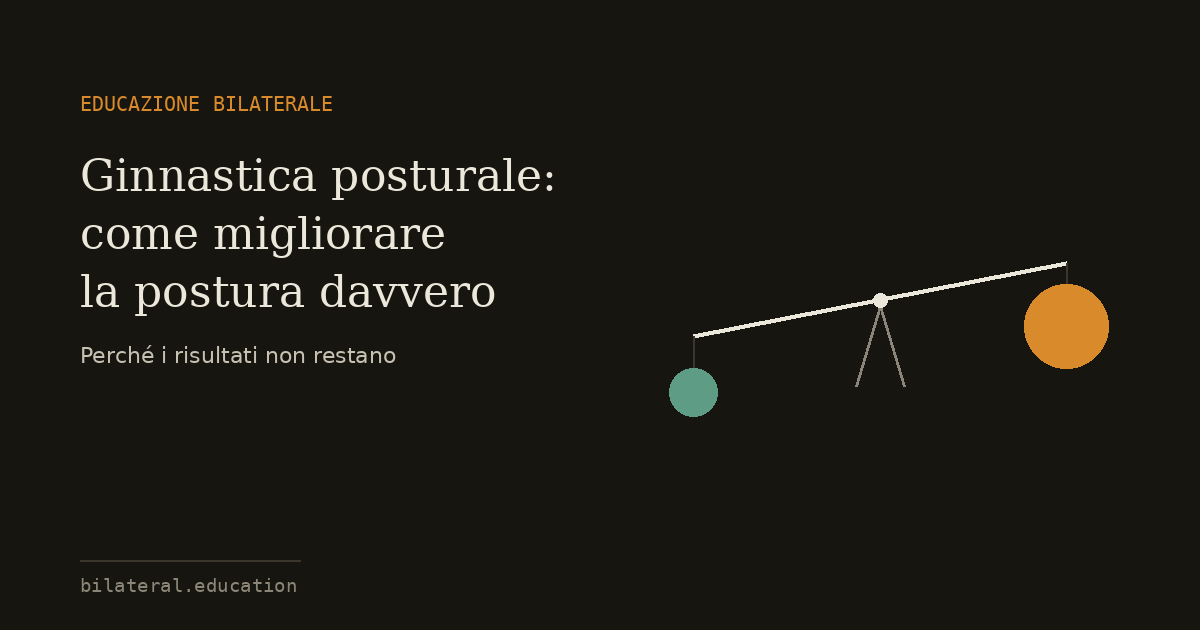
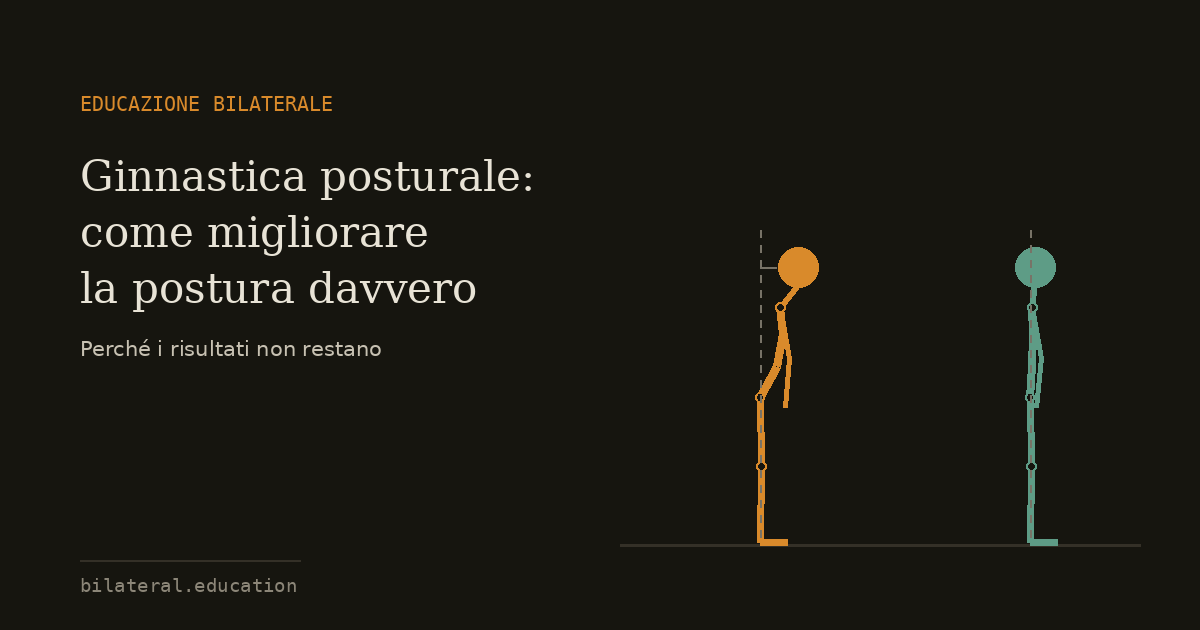
Add files via upload

Changed region(s): [[0.5242, 0.3921, 0.9558, 0.8746], [0.0617, 0.2413, 0.4625, 0.5127], [0.0617, 0.5429, 0.3392, 0.573]]

diff --git a/articoli/ginnastica-posturale/index.html b/articoli/ginnastica-posturale/index.html
@@ -30,17 +30,17 @@
 <meta property="og:title" content="Ginnastica posturale: come migliorare la postura davvero">
 <meta property="og:description" content="La ginnastica posturale funziona finch&eacute; ci pensi. Come migliorare la postura in modo che resti: notare da dove parte il gesto, togliere prima di aggiungere, cambiare il lato di partenza.">
 <meta property="og:url" content="https://www.bilateral.education/articoli/ginnastica-posturale/">
-<meta property="og:image" content="https://www.bilateral.education/img/articoli/postura.png">
+<meta property="og:image" content="https://www.bilateral.education/img/articoli/postura.png?v=202607190623">
 <meta property="og:image:width" content="1200">
 <meta property="og:image:height" content="630">
 <meta name="twitter:card" content="summary_large_image">
 <meta name="twitter:title" content="Ginnastica posturale: come migliorare la postura davvero">
 <meta name="twitter:description" content="La ginnastica posturale funziona finch&eacute; ci pensi. Come migliorare la postura in modo che resti: notare da dove parte il gesto, togliere prima di aggiungere, cambiare il lato di partenza.">
-<meta name="twitter:image" content="https://www.bilateral.education/img/articoli/postura.png">
+<meta name="twitter:image" content="https://www.bilateral.education/img/articoli/postura.png?v=202607190623">
 
 
 <link rel="preconnect" href="https://fonts.googleapis.com"><link rel="preconnect" href="https://fonts.gstatic.com" crossorigin><link href="https://fonts.googleapis.com/css2?family=Space+Grotesk:wght@400;500;700&family=Newsreader:ital,opsz,wght@0,6..72,300;0,6..72,400;0,6..72,500;1,6..72,300;1,6..72,400&family=Space+Mono:wght@400;700&display=swap" rel="stylesheet">
-<link rel="stylesheet" href="/styles.css?v=20260718230104">
+<link rel="stylesheet" href="/styles.css?v=20260719060912">
 </head>
 <body>
 <header class="site">
@@ -92,7 +92,7 @@
 
   <section style="padding-top:22px;">
     <div class="wrap">
-      <figure class="article-hero"><img src="/img/articoli/postura.svg" alt="Una bilancia sbilanciata: un lato porta sempre il carico maggiore" width="1200" height="630" loading="lazy"></figure>
+      <figure class="article-hero"><img src="/img/articoli/postura.svg?v=202607190623" alt="Due figure umane di profilo: a sinistra testa e spalle in avanti rispetto al filo a piombo, a destra la stessa figura allineata" width="1200" height="540" loading="lazy"></figure>
       <div class="article">
         <p style="border-left:3px solid var(--amber,#D98A2B); padding:2px 0 2px 18px; margin-bottom:30px"><span class="i18n-it"><strong>In breve.</strong> La ginnastica posturale aiuta, ma i suoi risultati durano quanto la tua attenzione: appena smetti di pensarci, le spalle tornano dov&rsquo;erano. Il motivo &egrave; che la postura non &egrave; una forma da tenere, &egrave; il <em>residuo</em> di come parte il tuo movimento &mdash; e il movimento parte quasi sempre dallo stesso lato. Per migliorare la postura in modo che resti, il lavoro non &egrave; raddrizzare la forma: &egrave; cambiare da dove nasce il gesto.</span><span class="i18n-en"><strong>In short.</strong> Postural training helps, but its results last exactly as long as your attention: the moment you stop thinking about it, your shoulders go back where they were. The reason is that posture isn&rsquo;t a shape to hold, it&rsquo;s the <em>residue</em> of how your movement starts &mdash; and movement almost always starts from the same side. To improve posture so that it stays, the work isn&rsquo;t straightening the shape: it&rsquo;s changing where the gesture is born.</span></p>
         <p><span class="i18n-it">Se hai cercato come migliorare la postura, probabilmente &egrave; gi&agrave; successo: qualcuno ti ha detto di tirare indietro le spalle, hai fatto qualche settimana di esercizi, per un po&rsquo; sei stato meglio. Poi &egrave; tornato tutto come prima. Non &egrave; colpa tua e non &egrave; colpa degli esercizi: &egrave; il modo in cui &egrave; posto il problema.</span><span class="i18n-en">If you&rsquo;ve searched how to improve your posture, it has probably already happened: someone told you to pull your shoulders back, you did a few weeks of exercises, for a while you felt better. Then everything went back to how it was. It isn&rsquo;t your fault and it isn&rsquo;t the exercises&rsquo; fault: it&rsquo;s the way the problem is framed.</span></p>
@@ -159,6 +159,6 @@
       <button id="cookie-yes" class="btn on-void" data-it="Accetta" data-en="Accept">Accetta</button>
     </div>
   </div>
-<script src="/app.js?v=20260718230104"></script>
+<script src="/app.js?v=20260719060912"></script>
 </body>
 </html>

diff --git a/en/articles/postural-training/index.html b/en/articles/postural-training/index.html
@@ -30,17 +30,17 @@
 <meta property="og:title" content="Postural training: how to actually improve your posture">
 <meta property="og:description" content="Postural training works as long as you think about it. How to improve posture so it lasts: notice where the gesture starts, remove before adding, change the starting side.">
 <meta property="og:url" content="https://www.bilateral.education/en/articles/postural-training/">
-<meta property="og:image" content="https://www.bilateral.education/img/articoli/postura.png">
+<meta property="og:image" content="https://www.bilateral.education/img/articoli/postura.png?v=202607190623">
 <meta property="og:image:width" content="1200">
 <meta property="og:image:height" content="630">
 <meta name="twitter:card" content="summary_large_image">
 <meta name="twitter:title" content="Postural training: how to actually improve your posture">
 <meta name="twitter:description" content="Postural training works as long as you think about it. How to improve posture so it lasts: notice where the gesture starts, remove before adding, change the starting side.">
-<meta name="twitter:image" content="https://www.bilateral.education/img/articoli/postura.png">
+<meta name="twitter:image" content="https://www.bilateral.education/img/articoli/postura.png?v=202607190623">
 
 
 <link rel="preconnect" href="https://fonts.googleapis.com"><link rel="preconnect" href="https://fonts.gstatic.com" crossorigin><link href="https://fonts.googleapis.com/css2?family=Space+Grotesk:wght@400;500;700&family=Newsreader:ital,opsz,wght@0,6..72,300;0,6..72,400;0,6..72,500;1,6..72,300;1,6..72,400&family=Space+Mono:wght@400;700&display=swap" rel="stylesheet">
-<link rel="stylesheet" href="/styles.css?v=20260718230104">
+<link rel="stylesheet" href="/styles.css?v=20260719060912">
 </head>
 <body>
 <header class="site">
@@ -92,7 +92,7 @@
 
   <section style="padding-top:22px;">
     <div class="wrap">
-      <figure class="article-hero"><img src="/img/articoli/postura.svg" alt="An unbalanced scale: one side always carries the greater load" width="1200" height="630" loading="lazy"></figure>
+      <figure class="article-hero"><img src="/img/articoli/postura.svg?v=202607190623" alt="Two human figures in profile: on the left head and shoulders forward of the plumb line, on the right the same figure aligned" width="1200" height="540" loading="lazy"></figure>
       <div class="article">
         <p style="border-left:3px solid var(--amber,#D98A2B); padding:2px 0 2px 18px; margin-bottom:30px"><span class="i18n-it"><strong>In breve.</strong> La ginnastica posturale aiuta, ma i suoi risultati durano quanto la tua attenzione: appena smetti di pensarci, le spalle tornano dov&rsquo;erano. Il motivo &egrave; che la postura non &egrave; una forma da tenere, &egrave; il <em>residuo</em> di come parte il tuo movimento &mdash; e il movimento parte quasi sempre dallo stesso lato. Per migliorare la postura in modo che resti, il lavoro non &egrave; raddrizzare la forma: &egrave; cambiare da dove nasce il gesto.</span><span class="i18n-en"><strong>In short.</strong> Postural training helps, but its results last exactly as long as your attention: the moment you stop thinking about it, your shoulders go back where they were. The reason is that posture isn&rsquo;t a shape to hold, it&rsquo;s the <em>residue</em> of how your movement starts &mdash; and movement almost always starts from the same side. To improve posture so that it stays, the work isn&rsquo;t straightening the shape: it&rsquo;s changing where the gesture is born.</span></p>
         <p><span class="i18n-it">Se hai cercato come migliorare la postura, probabilmente &egrave; gi&agrave; successo: qualcuno ti ha detto di tirare indietro le spalle, hai fatto qualche settimana di esercizi, per un po&rsquo; sei stato meglio. Poi &egrave; tornato tutto come prima. Non &egrave; colpa tua e non &egrave; colpa degli esercizi: &egrave; il modo in cui &egrave; posto il problema.</span><span class="i18n-en">If you&rsquo;ve searched how to improve your posture, it has probably already happened: someone told you to pull your shoulders back, you did a few weeks of exercises, for a while you felt better. Then everything went back to how it was. It isn&rsquo;t your fault and it isn&rsquo;t the exercises&rsquo; fault: it&rsquo;s the way the problem is framed.</span></p>
@@ -159,6 +159,6 @@
       <button id="cookie-yes" class="btn on-void" data-it="Accetta" data-en="Accept">Accept</button>
     </div>
   </div>
-<script src="/app.js?v=20260718230104"></script>
+<script src="/app.js?v=20260719060912"></script>
 </body>
 </html>